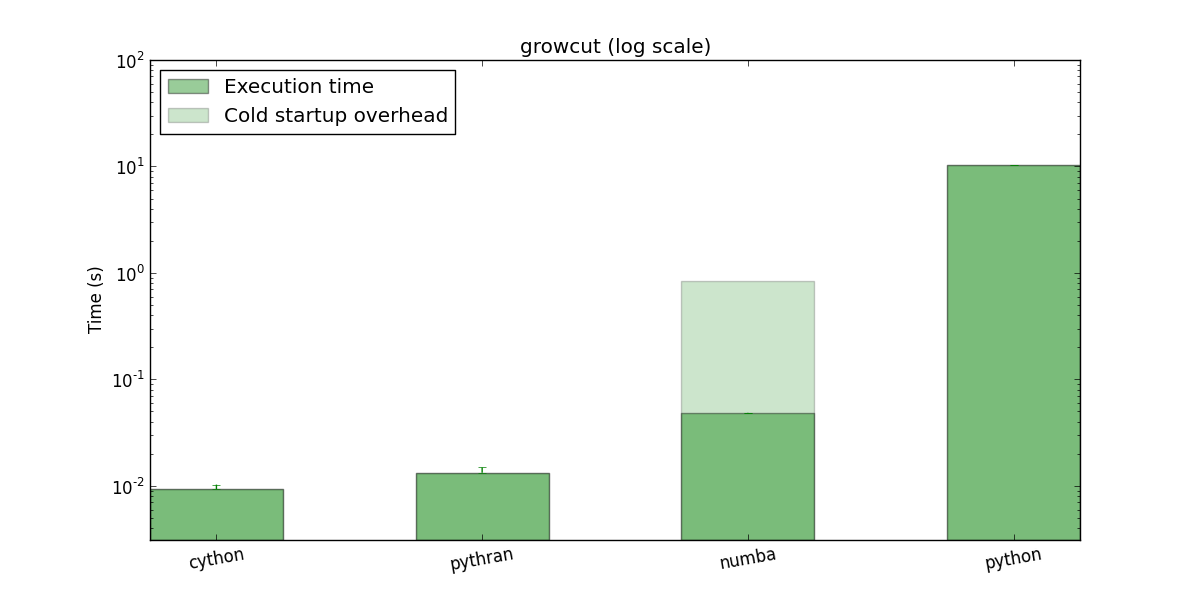
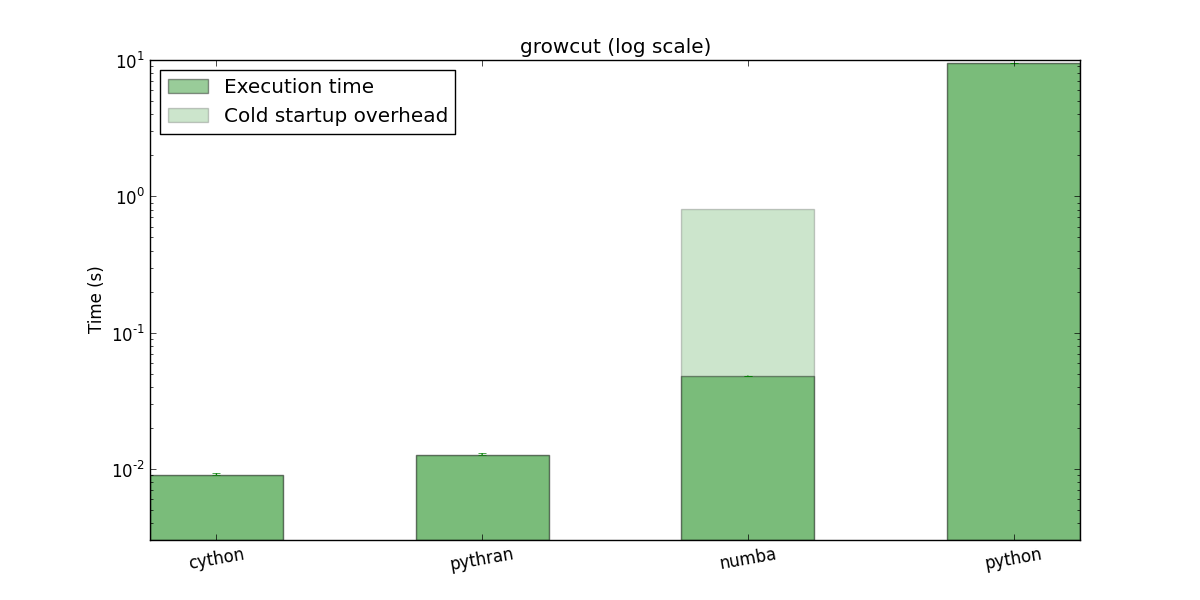
Update documentation

diff --git a/index.html b/index.html
@@ -117,8 +117,8 @@
     
   </td>
   <td>0.006 
-      (0.001)</td>
-  <td>1653.3</td>
+      (0.000)</td>
+  <td>1574.5</td>
 </tr>
 
 <tr>
@@ -130,8 +130,8 @@
     
   </td>
   <td>0.010 
-      (0.002)</td>
-  <td>1007.8</td>
+      (0.000)</td>
+  <td>981.9</td>
 </tr>
 
 <tr>
@@ -139,12 +139,12 @@
   <td>#3</td>
   <td><a href="https://github.com/numfocus/python-benchmarks/tree/master/growcut/growcut_numba.py">growcut_numba</a></td>
   <td>
-    0.831
+    0.801
     
   </td>
   <td>0.045 
       (0.001)</td>
-  <td>229.2</td>
+  <td>212.1</td>
 </tr>
 
 <tr>
@@ -155,7 +155,7 @@
     N/A
     
   </td>
-  <td>10.268 
+  <td>9.507 
       (0.000)</td>
   <td>1.0</td>
 </tr>
@@ -234,7 +234,7 @@ while running this benchmark.
   </td>
   <td>0.002 
       (0.000)</td>
-  <td>1676.7</td>
+  <td>1584.1</td>
 </tr>
 
 <tr>
@@ -247,7 +247,7 @@ while running this benchmark.
   </td>
   <td>0.004 
       (0.000)</td>
-  <td>1070.4</td>
+  <td>1023.4</td>
 </tr>
 
 <tr>
@@ -258,9 +258,9 @@ while running this benchmark.
     N/A
     
   </td>
-  <td>0.174 
-      (0.003)</td>
-  <td>23.7</td>
+  <td>0.169 
+      (0.005)</td>
+  <td>23.3</td>
 </tr>
 
 <tr>
@@ -271,7 +271,7 @@ while running this benchmark.
     N/A
     
   </td>
-  <td>4.127 
+  <td>3.926 
       (0.000)</td>
   <td>1.0</td>
 </tr>
@@ -345,12 +345,12 @@ while running this benchmark.
   <td>#1</td>
   <td><a href="https://github.com/numfocus/python-benchmarks/tree/master/pairwise/pairwise_numba.py">pairwise_numba_nested_for_loops</a></td>
   <td>
-    0.235
+    0.229
     
   </td>
   <td>0.013 
       (0.000)</td>
-  <td>1712.4</td>
+  <td>1666.2</td>
 </tr>
 
 <tr>
@@ -363,7 +363,7 @@ while running this benchmark.
   </td>
   <td>0.013 
       (0.000)</td>
-  <td>1709.5</td>
+  <td>1658.9</td>
 </tr>
 
 <tr>
@@ -371,12 +371,12 @@ while running this benchmark.
   <td>#3</td>
   <td><a href="https://github.com/numfocus/python-benchmarks/tree/master/pairwise/pairwise_parakeet.py">pairwise_parakeet_nested_for_loops</a></td>
   <td>
-    0.118
+    0.117
     
   </td>
-  <td>0.015 
+  <td>0.014 
       (0.000)</td>
-  <td>1505.0</td>
+  <td>1473.9</td>
 </tr>
 
 <tr>
@@ -384,12 +384,12 @@ while running this benchmark.
   <td>#4</td>
   <td><a href="https://github.com/numfocus/python-benchmarks/tree/master/pairwise/pairwise_parakeet.py">pairwise_parakeet_inner_broadcasting</a></td>
   <td>
-    0.157
+    0.150
     
   </td>
-  <td>0.015 
+  <td>0.014 
       (0.000)</td>
-  <td>1499.0</td>
+  <td>1464.1</td>
 </tr>
 
 <tr>
@@ -400,9 +400,9 @@ while running this benchmark.
     N/A
     
   </td>
-  <td>0.021 
+  <td>0.016 
       (0.002)</td>
-  <td>1042.1</td>
+  <td>1342.5</td>
 </tr>
 
 <tr>
@@ -413,9 +413,9 @@ while running this benchmark.
     N/A
     
   </td>
-  <td>1.966 
+  <td>1.789 
       (0.000)</td>
-  <td>11.1</td>
+  <td>11.8</td>
 </tr>
 
 <tr>
@@ -426,7 +426,7 @@ while running this benchmark.
     N/A
     
   </td>
-  <td>21.867 
+  <td>21.068 
       (0.000)</td>
   <td>1.0</td>
 </tr>
@@ -473,15 +473,15 @@ while running this benchmark.
     <a title="Permalink to this headline"
        href="#runtime-errors-growcut-growcut_parakeet"
        class="headerlink">&para;</a></h5>
-    <pre class="pre-scrollable">
-NameNotFound: d
+    <pre class="pre-scrollable"
+>NameNotFound: d
 
 Traceback (most recent call last):
-  File &#34;run_benchmarks.py&#34;, line 170, in run_benchmarks
+  File &#34;run_benchmarks.py&#34;, line 181, in run_benchmarks
     record = run_benchmark(name, func, args, kwargs, memory=memory)
-  File &#34;run_benchmarks.py&#34;, line 116, in run_benchmark
+  File &#34;run_benchmarks.py&#34;, line 127, in run_benchmark
     first_timing = time_once()
-  File &#34;run_benchmarks.py&#34;, line 112, in time_once
+  File &#34;run_benchmarks.py&#34;, line 123, in time_once
     func(*args, **kwargs)
   File &#34;/usr/local/Cellar/python/2.7.5/Frameworks/Python.framework/Versions/2.7/lib/python2.7/site-packages/parakeet-0.13-py2.7.egg/parakeet/decorators.py&#34;, line 115, in __call__
     return run_function.run(self.f, *args, **kwargs)
@@ -550,8 +550,7 @@ Traceback (most recent call last):
   File &#34;/usr/local/Cellar/python/2.7.5/Frameworks/Python.framework/Versions/2.7/lib/python2.7/site-packages/parakeet-0.13-py2.7.egg/parakeet/ast_conversion.py&#34;, line 281, in lookup
     raise NameNotFound(name)
 NameNotFound: d
-
-    </pre>
+</pre>
     </div>
   
 </div>
@@ -582,8 +581,8 @@ NameNotFound: d
     <a title="Permalink to this headline"
        href="#runtime-errors-julia-julia_numba_for_loops"
        class="headerlink">&para;</a></h5>
-    <pre class="pre-scrollable">
-NumbaError: (see below)
+    <pre class="pre-scrollable"
+>NumbaError: (see below)
 --------------------- Numba Encountered Errors or Warnings ---------------------
     for i, x in enumerate(grid_x):
 --------^
@@ -591,11 +590,11 @@ Error 23:8: Only a single target iteration variable is supported at the moment
 --------------------------------------------------------------------------------
 
 Traceback (most recent call last):
-  File &#34;run_benchmarks.py&#34;, line 170, in run_benchmarks
+  File &#34;run_benchmarks.py&#34;, line 181, in run_benchmarks
     record = run_benchmark(name, func, args, kwargs, memory=memory)
-  File &#34;run_benchmarks.py&#34;, line 116, in run_benchmark
+  File &#34;run_benchmarks.py&#34;, line 127, in run_benchmark
     first_timing = time_once()
-  File &#34;run_benchmarks.py&#34;, line 112, in time_once
+  File &#34;run_benchmarks.py&#34;, line 123, in time_once
     func(*args, **kwargs)
   File &#34;numbawrapper.pyx&#34;, line 189, in numba.numbawrapper._NumbaSpecializingWrapper.__call__ (numba/numbawrapper.c:3726)
   File &#34;/usr/local/Cellar/python/2.7.5/Frameworks/Python.framework/Versions/2.7/lib/python2.7/site-packages/numba/wrapping/compiler.py&#34;, line 68, in compile_from_args
@@ -624,8 +623,7 @@ NumbaError: (see below)
 --------^
 Error 23:8: Only a single target iteration variable is supported at the moment
 --------------------------------------------------------------------------------
-
-    </pre>
+</pre>
     </div>
   
     <div id="runtime-errors-julia-julia_parakeet_for_loops">
@@ -633,15 +631,15 @@ Error 23:8: Only a single target iteration variable is supported at the moment
     <a title="Permalink to this headline"
        href="#runtime-errors-julia-julia_parakeet_for_loops"
        class="headerlink">&para;</a></h5>
-    <pre class="pre-scrollable">
-AssertionError: Unsupported primitive: &lt;type &#39;numpy.uint32&#39;&gt;
+    <pre class="pre-scrollable"
+>AssertionError: Unsupported primitive: &lt;type &#39;numpy.uint32&#39;&gt;
 
 Traceback (most recent call last):
-  File &#34;run_benchmarks.py&#34;, line 170, in run_benchmarks
+  File &#34;run_benchmarks.py&#34;, line 181, in run_benchmarks
     record = run_benchmark(name, func, args, kwargs, memory=memory)
-  File &#34;run_benchmarks.py&#34;, line 116, in run_benchmark
+  File &#34;run_benchmarks.py&#34;, line 127, in run_benchmark
     first_timing = time_once()
-  File &#34;run_benchmarks.py&#34;, line 112, in time_once
+  File &#34;run_benchmarks.py&#34;, line 123, in time_once
     func(*args, **kwargs)
   File &#34;/usr/local/Cellar/python/2.7.5/Frameworks/Python.framework/Versions/2.7/lib/python2.7/site-packages/parakeet-0.13-py2.7.egg/parakeet/decorators.py&#34;, line 115, in __call__
     return run_function.run(self.f, *args, **kwargs)
@@ -682,8 +680,7 @@ Traceback (most recent call last):
   File &#34;/usr/local/Cellar/python/2.7.5/Frameworks/Python.framework/Versions/2.7/lib/python2.7/site-packages/parakeet-0.13-py2.7.egg/parakeet/ast_conversion.py&#34;, line 855, in translate_function_value
     &#34;Unsupported primitive: %s&#34; % (fn,)
 AssertionError: Unsupported primitive: &lt;type &#39;numpy.uint32&#39;&gt;
-
-    </pre>
+</pre>
     </div>
   
     <div id="runtime-errors-julia-julia_parakeet_numpy">
@@ -691,15 +688,15 @@ AssertionError: Unsupported primitive: &lt;type &#39;numpy.uint32&#39;&gt;
     <a title="Permalink to this headline"
        href="#runtime-errors-julia-julia_parakeet_numpy"
        class="headerlink">&para;</a></h5>
-    <pre class="pre-scrollable">
-AssertionError: Unsupported primitive: &lt;built-in function geterrobj&gt;
+    <pre class="pre-scrollable"
+>AssertionError: Unsupported primitive: &lt;built-in function geterrobj&gt;
 
 Traceback (most recent call last):
-  File &#34;run_benchmarks.py&#34;, line 170, in run_benchmarks
+  File &#34;run_benchmarks.py&#34;, line 181, in run_benchmarks
     record = run_benchmark(name, func, args, kwargs, memory=memory)
-  File &#34;run_benchmarks.py&#34;, line 116, in run_benchmark
+  File &#34;run_benchmarks.py&#34;, line 127, in run_benchmark
     first_timing = time_once()
-  File &#34;run_benchmarks.py&#34;, line 112, in time_once
+  File &#34;run_benchmarks.py&#34;, line 123, in time_once
     func(*args, **kwargs)
   File &#34;/usr/local/Cellar/python/2.7.5/Frameworks/Python.framework/Versions/2.7/lib/python2.7/site-packages/parakeet-0.13-py2.7.egg/parakeet/decorators.py&#34;, line 115, in __call__
     return run_function.run(self.f, *args, **kwargs)
@@ -760,8 +757,7 @@ Traceback (most recent call last):
   File &#34;/usr/local/Cellar/python/2.7.5/Frameworks/Python.framework/Versions/2.7/lib/python2.7/site-packages/parakeet-0.13-py2.7.egg/parakeet/ast_conversion.py&#34;, line 855, in translate_function_value
     &#34;Unsupported primitive: %s&#34; % (fn,)
 AssertionError: Unsupported primitive: &lt;built-in function geterrobj&gt;
-
-    </pre>
+</pre>
     </div>
   
 </div>
